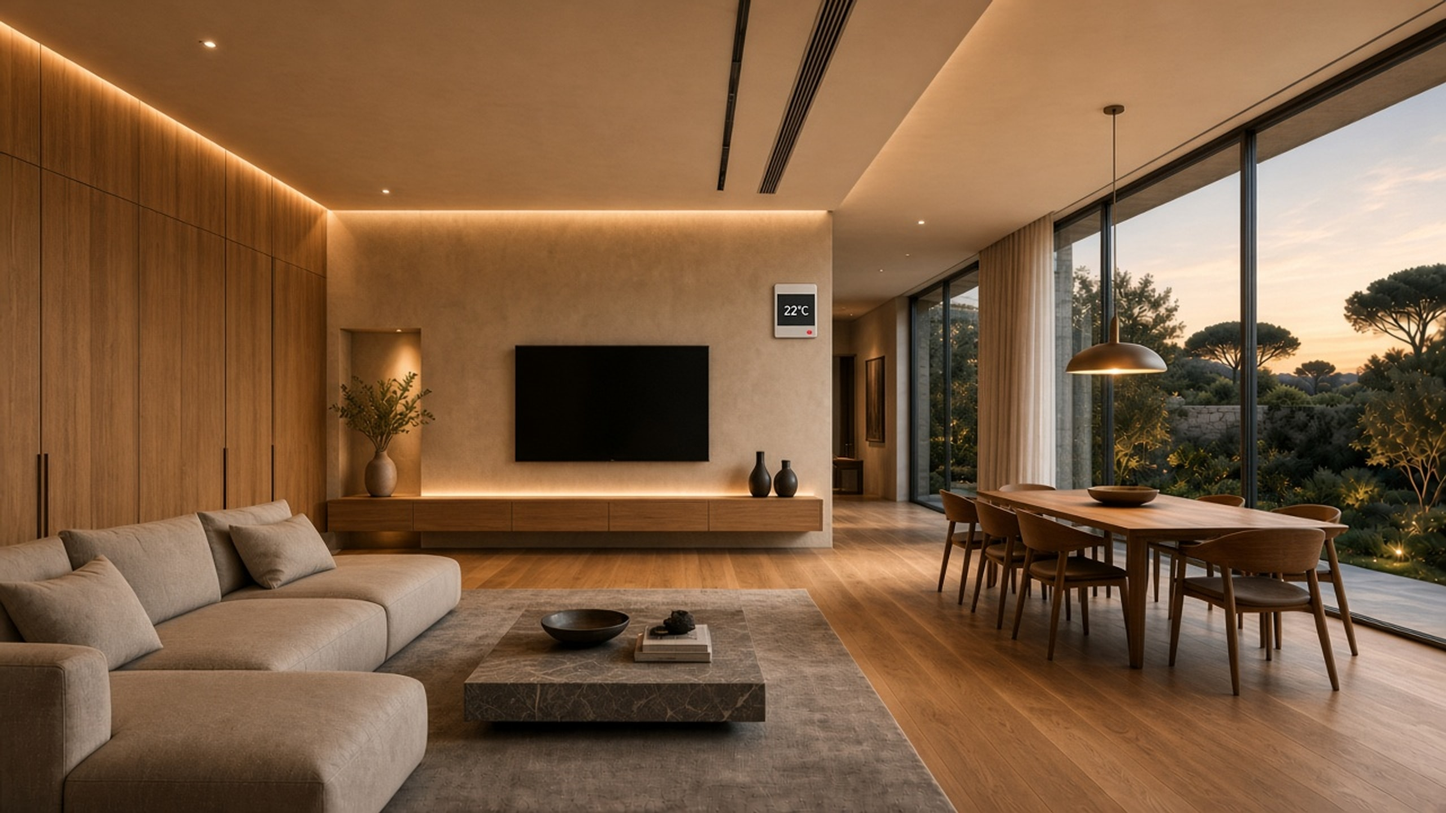
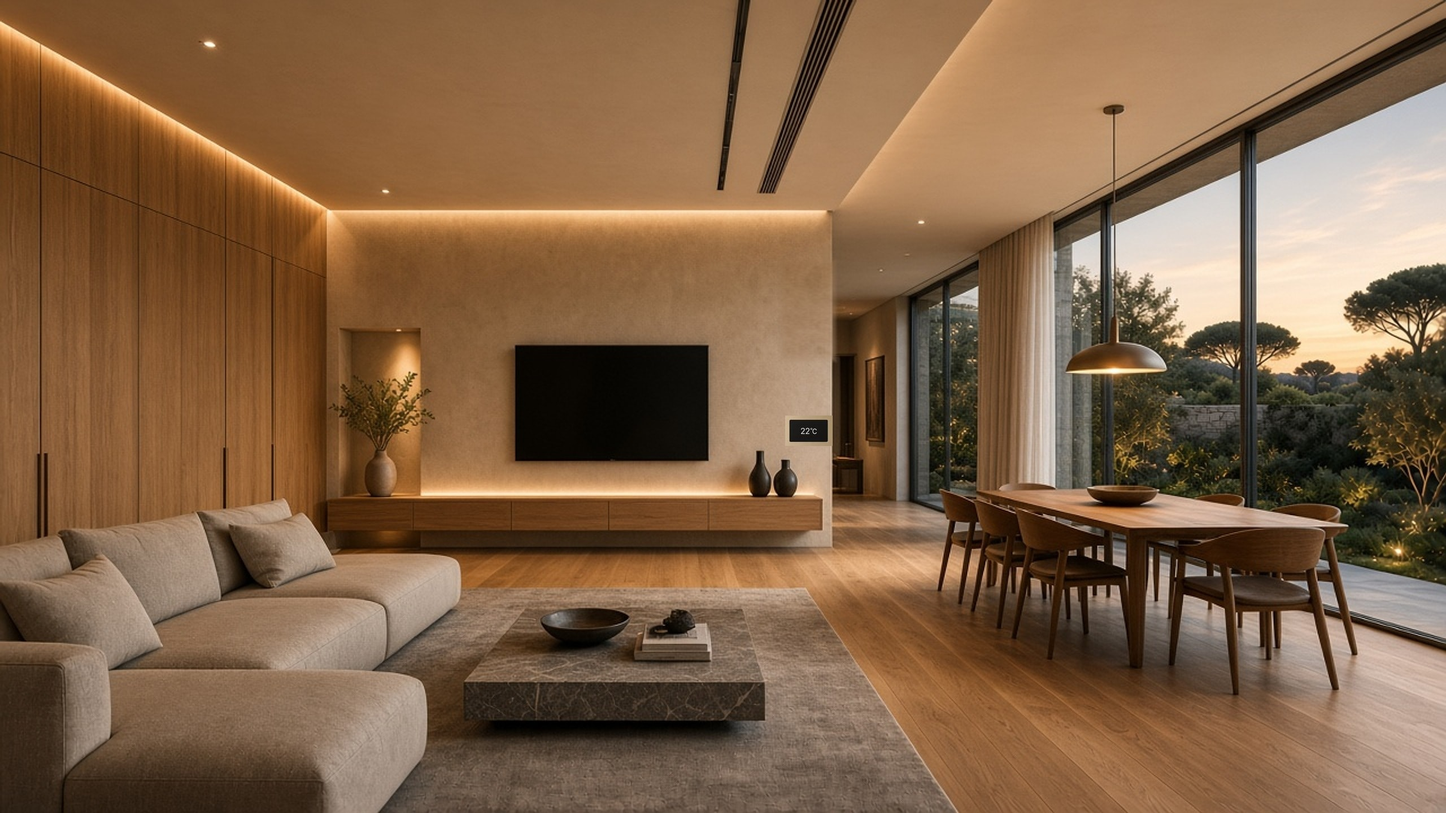
Update FourPillars component layout and replace hero images
- Adjusted the layout of the FourPillars component for better alignment and styling.
- Replaced existing hero images with updated local versions for improved performance and consistency.

diff --git a/components/home/FourPillars.tsx b/components/home/FourPillars.tsx
@@ -52,8 +52,7 @@ export function FourPillars() {
                   </p>
                 </div>
                 {pillar.href ? (
-                  <div className="flex items-center justify-between border-t border-outline/15 pt-6">
-                    <span className="text-body-sm text-outline">Descubrir</span>
+                  <div className="flex items-center justify-end border-t border-outline/15 pt-6">
                     <Link
                       href={pillar.href}
                       className="inline-flex items-center space-x-1 text-label-uppercase text-primary transition-colors hover:text-slate-deep"
